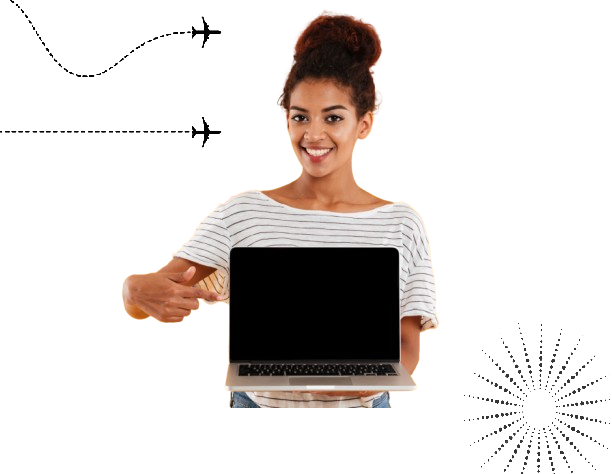
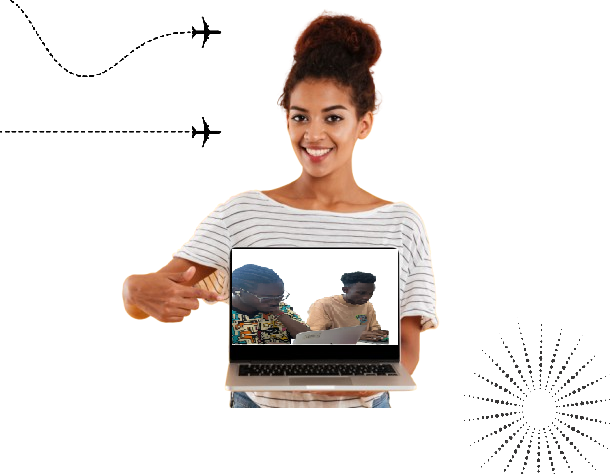
changed courses cover images and courses description text

Changed region(s): [[0.3725, 0.5021, 0.652, 0.7384]]

diff --git a/index.html b/index.html
@@ -79,30 +79,28 @@
           <h3>Web Design  </h3>
           <img src="img/IMG_20210727_165912.jpg" >
           <p>
-            This is a 1-month course. By the end of the program, you will go from
-             a novice to a confident, entry-level Web Designer. 
-             Learn to build Websites from scratch using HTML, CSS and Bootstrap.
+            This 7-week course includes 4 weeks of intensive, hands-on coding lessons and 3 weeks 
+            of online mentorship and job assistance. By the end of the program, you'll transform from
+             a novice into a confident, entry-level Web Designer.
           </p>
         </div>
         
         <div class="col-4 courses_column">
           <h3>Full Stack Web Development</h3>
-          <img src="img/full_stack.jpg">
+          <img src="img/fullstack.webp">
           <p>
-            This is a 4-month comprehensive course in Full Stack Software Development. 
-            Throughout the program, you will develop the skills needed to build both front-end 
-            and back-end applications, making you proficient across the Full Stack.
+            This 4-month comprehensive course in Full Stack Software Development equips you with the skills
+             to build both front-end and back-end applications. Gain proficiency across the Full Stack and 
+             become a well-rounded developer ready for the industry.
           </p>
         </div>
         <div class="col-4 courses_column">
           <h3>Mobile App Development  </h3>
-          <img src="img/mobile_app.jpg" class="adjust_image">
+          <img src="img/mobile_app.webp" class="adjust_image">
           <p>
-            This is a 3-month course. By the end of the program, you will go from
-             a novice to a confident, entry-level Mobile App developer. 
-             <!-- The course is designed 
-             with a strong emphasis on practical training in software development, ensuring 
-             you gain hands-on experience with the latest tools and technologies. -->
+            This 3-month course is designed to transform you from a novice into a confident, entry-level
+             Mobile App Developer. Learn to design and build functional mobile applications while mastering
+              essential development tools and techniques.
           </p>
         </div>
         <div class="book_consult">

diff --git a/css/index.css b/css/index.css
@@ -202,9 +202,9 @@ ul li:hover{
 	margin-bottom: 20px;
 }
 
-.courses_wrapper{
-	
-	
+.courses_column span{
+	margin-top: -50px;
+	margin-left: 200px;
 }
 .courses_column h3{
 	text-align: center;
@@ -416,17 +416,17 @@ ul li:hover{
 	}
 
 	.courses_wrapper{
-		width: 90%;
+		width: auto;
 		overflow: hidden;
 		
 	}
-	.courses_container{
+	/* .courses_container{
 		width: 100%;
 		margin: 0;
 		height: auto;
 		border-radius: 0px;
 		overflow: hidden;
-	}
+	} */
 	.courses_wrapper img{
 		width:  230px;
 		
@@ -455,8 +455,11 @@ ul li:hover{
 	.col-6{
 		width: 100%;
 	}
+	.courses_column{
+		width: 100%;
+	}
 	.courses_column img{
-		width: 300px;
+		width: auto;
 		height: 150px;
 	}
 	.intro_heading {
